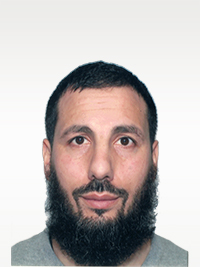
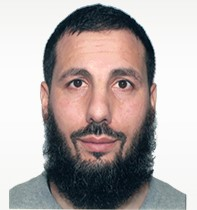
photo ok start @media sm

diff --git a/index.html b/index.html
@@ -22,15 +22,17 @@
 
 <body>
   <!-- Global Fluid Container  -->
-  <div class="container mx-sm-0">
+  <div class="container-md ">
     <!-- Header -->
     <header>
       <div class="row ">
         <div class="col-md-4 ">
-          <p><img src="images/photo_Profile.jpg" alt="photo de profile" /></p>
+          <div class="photo mx-auto mb-4">
+            <img src="images/photo_Profile.jpg" alt="photo de profile" />
+          </div>
         </div>
-        <div class="col-md-8 pl-5 my-auto ">
-          <h1><span>AHMED </span><span>MESSAOUDI</span></h1>
+        <div class="col-md-8 pl-5 my-auto my-sm-4">
+          <h1><span>AHMED</span><span>MESSAOUDI</span></h1>
           <h2>Développeur web freelance</h2>
         </div>
       </div>
@@ -231,13 +233,13 @@
         </div>
         <div class="row Hobbies h-100 pt-5 mx-0">
           <div class="col-sm-4">
-            <p><i class="fas fa-laptop-code fa-3x"></i></p>
+            <i class="fas fa-laptop-code fa-3x"></i>
           </div>
           <div class="col-sm-4">
-            <p><i class="fas fa-bicycle fa-3x"></i></p>
+            <i class="fas fa-bicycle fa-3x"></i>
           </div>
           <div class="col-sm-4 ">
-            <p><i class="fas fa-book-reader fa-3x "></i></p>
+            <i class="fas fa-book-reader fa-3x"></i>
           </div>
         </div>
       </div>
@@ -245,7 +247,7 @@
 
       <!--  Recomandation  -->
 
-      <div class="col-md-8 order-sm-1 order-md-2 mt-lg-5 ">
+      <div class="col-md-8 order-sm-1 order-md-2 mt-lg-5  ">
         <div class="row recomdtTitle">
           <div class="col-sm-12 pl-5">
             <h2><i class="fas fa-mail-bulk"></i>RECOMMANDATIONS</h2>

diff --git a/css/style.css b/css/style.css
@@ -15,6 +15,7 @@
 
 html,
 body {
+  
   padding: 0;
   margin: 0;
 }
@@ -24,13 +25,19 @@ body {
 }
 
 /*************** Header********** */
-
-header img {
-  width: 190px;
-  height: 200px;
-  border: 3px solid #037eb8;
+  img {
+ border: 4px solid #037eb8;
   border-radius: 50%;
+ 
 }
+.photo{
+  width: 100%; 
+   width: 12.5rem;
+  height: 12.5rem;
+   
+ 
+}
+ 
 
 header .col-md-4 {
   background-color: #1a9edb;

diff --git a/css/media.css b/css/media.css
@@ -41,7 +41,12 @@
   .recomdtTitle {
     margin-top: 12rem;
   }
+  /* **********Hobbies ******** */
 
+.Hobbies .col-sm-4 i {
+  font-size: 1.5rem;
+  padding: 0.7rem;
+}
 }
 
 @media (max-width: 767px) {
